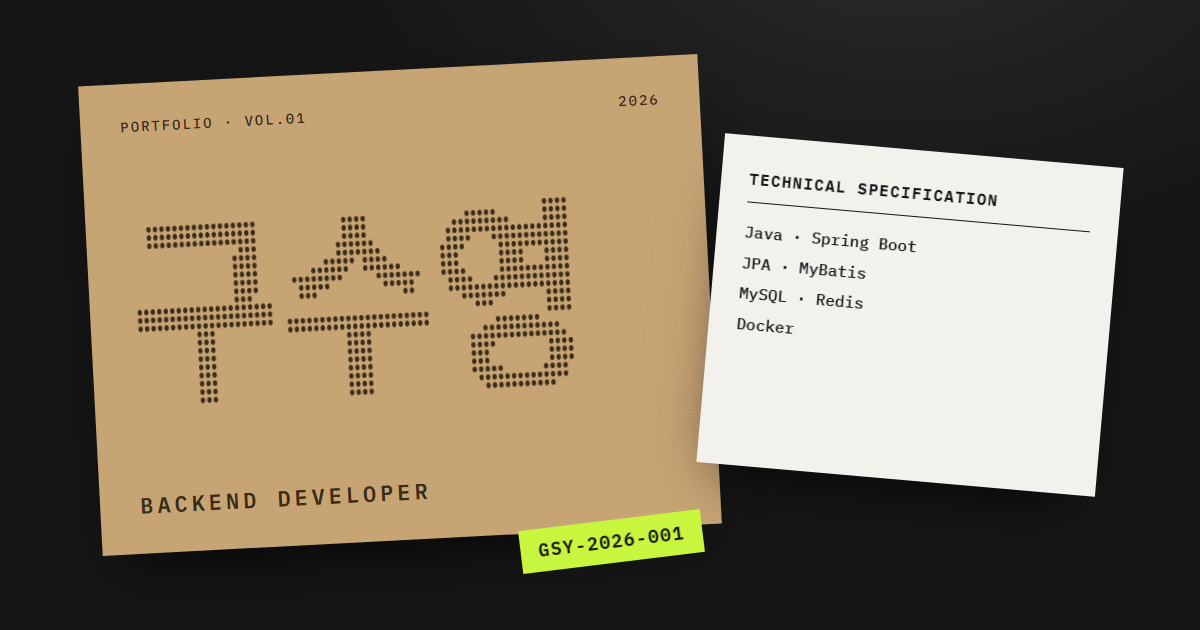
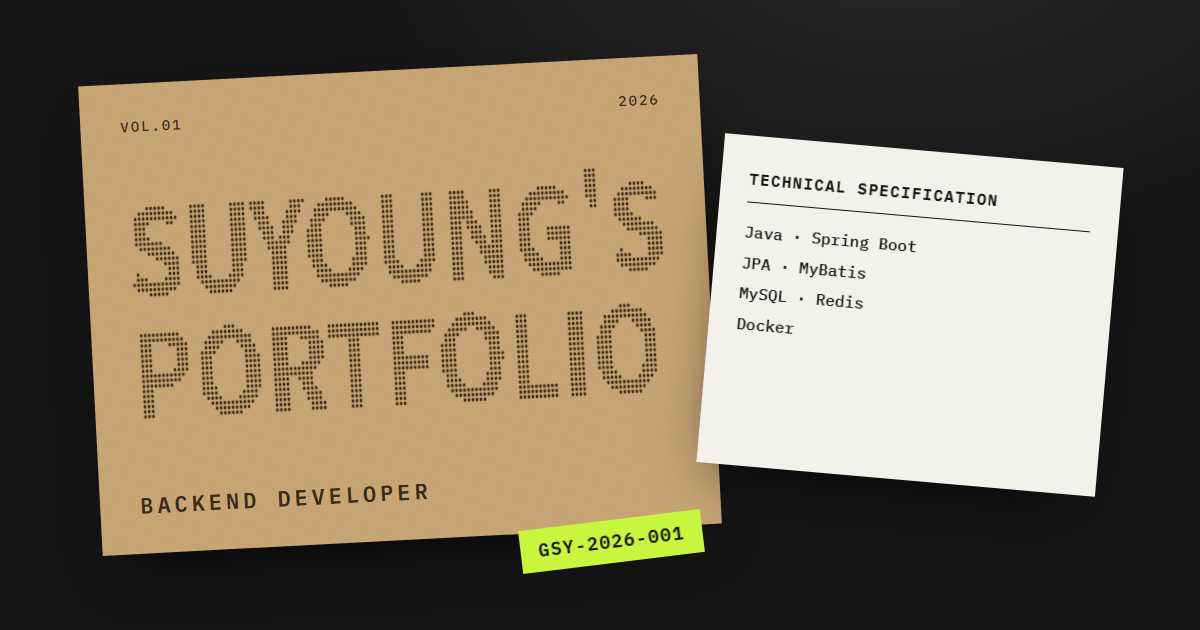
feat: 사이트 이름을 Suyoung's Portfolio 로, CA2SA 역할을 옵션 등록·수정으로
- 표지 도트 글자·브라우저 탭·링크 미리보기는 사이트 이름, 서신·이력 기록부의 Name 칸은 실명 유지
- DotText 여러 줄 지원, 실제 글자 폭 기준으로 크기 결정
- CA2SA 메뉴 옵션은 등록·수정만 담당한 것으로 확인

Changed region(s): [[0.0925, 0.2714, 0.555, 0.6635], [0.0925, 0.181, 0.2467, 0.2111]]

diff --git a/scripts/og-template.html b/scripts/og-template.html
@@ -30,7 +30,7 @@
 </head>
 <body>
   <div class="cover">
-    <div class="label"><span>Portfolio · Vol.01</span><span>2026</span></div>
+    <div class="label"><span>Vol.01</span><span>2026</span></div>
     <canvas id="c" width="1080" height="560"></canvas>
     <div class="role">BACKEND DEVELOPER</div>
   </div>
@@ -40,9 +40,11 @@
     document.fonts.ready.then(() => {
       const c = document.getElementById("c"), w = c.width, h = c.height, ctx = c.getContext("2d");
       const o = document.createElement("canvas"); o.width = w; o.height = h;
-      const x = o.getContext("2d"); const size = Math.min(h * 0.8, (w / 3) * 0.92);
-      x.font = `700 ${size}px "IBM Plex Sans KR"`; x.textBaseline = "middle"; x.fillText("구수영", 0, h / 2);
-      const d = x.getImageData(0, 0, w, h).data, step = Math.round(size / 26);
+      const x = o.getContext("2d"); const lines = ["SUYOUNG'S", "PORTFOLIO"];
+      let size = h * 0.42; x.font = `700 ${size}px "IBM Plex Sans KR"`;
+      const widest = Math.max(...lines.map((l) => x.measureText(l).width)); if (widest > w) { size *= w / widest; x.font = `700 ${size}px "IBM Plex Sans KR"`; }
+      x.textBaseline = "middle"; lines.forEach((l, i) => x.fillText(l, 0, h / 2 + (i - 0.5) * size * 1.05));
+      const d = x.getImageData(0, 0, w, h).data, step = Math.round(size / 22);
       ctx.fillStyle = "#3b2c18";
       for (let y = step / 2; y < h; y += step) for (let i = step / 2; i < w; i += step)
         if (d[((y | 0) * w + (i | 0)) * 4 + 3] > 110) { ctx.beginPath(); ctx.arc(i, y, step * .34, 0, 7); ctx.fill(); }

diff --git a/src/data/profile.ts b/src/data/profile.ts
@@ -1,6 +1,8 @@
 // 사이트 전체에서 쓰는 기본 정보. 노션 내용이 정리되면 여기를 채우세요.
 export const profile = {
   name: "구수영",
+  // 표지·브라우저 탭·링크 미리보기에 쓰는 사이트 이름
+  siteTitle: "Suyoung's Portfolio",
   nameEn: "GU SUYOUNG",
   // 서명 칸에 고정폭 이탤릭으로 표시됩니다.
   nameSign: "Suyoung Gu",

diff --git a/docs/project-notes/ca2sa.md b/docs/project-notes/ca2sa.md
@@ -2,8 +2,7 @@
 
 사이트에는 나가지 않는 작성 메모입니다. `src/content/projects/ca2sa.md` 에서 옮겨 왔습니다.
 
-- 옵션 조회·삭제 API는 현재 `MenuOptionController`, `MenuOptionService`, `MenuOptionMapper`에서 확인되지 않음. 다른 코드 경로나 당시 작업 이력을 확인한 후 구체적 구현 내역을 보완할 예정. (사이트의 역할 칸에는 "메뉴 옵션 CRUD 담당"으로 적혀 있으므로, 확인 결과에 따라 역할 문구를 맞출 것)
-- 메뉴 옵션 조회·삭제의 실제 구현 위치 및 담당 내역은 추가 확인이 필요.
+- (2026-10-15 확인) 메뉴 옵션은 등록·수정만 담당한 것이 맞음 → 사이트 역할 칸을 "메뉴 옵션 등록·수정 담당"으로 수정함. 조회·삭제는 담당 범위가 아님.
 - 개발 기간은 본인 GitHub 커밋(2024.12.18 ~ 2025.01.02) 기준으로 기재. 실제 프로젝트 시작·종료일은 다를 수 있음.
 - 구체적인 성과와 당시 해결했던 이슈는 추가 기록 확인 후 보완할 예정. 트러블슈팅이 생기면 frontmatter `troubleshooting` 에 넣으면 "검토 완료" 도장이 찍힘.
 - "회고 · 다시 만든다면" 절은 실제로 수행한 트러블슈팅이 아니라 현재 공개 코드를 읽으며 발견한 개선 검토 사항임.

diff --git a/src/content/projects/ca2sa.md b/src/content/projects/ca2sa.md
@@ -2,7 +2,7 @@
 title: CA2SA
 summary: 카페 메뉴 관리와 주문 기능을 제공하는 팀 프로젝트에서 메뉴 및 메뉴 옵션 관리 기능을 담당했습니다.
 period: "2024.12 ~ 2025.01"
-role: "백엔드 · 메뉴 CUD / 메뉴 옵션 CRUD 담당"
+role: "백엔드 · 메뉴 CUD / 메뉴 옵션 등록·수정 담당"
 stack: [Java 17, Spring Boot 3.3.6, MyBatis, MariaDB, springdoc OpenAPI, Gradle]
 highlight: "메뉴 등록·수정·삭제와 이미지 파일 관리, 메뉴 옵션 중복 검증"
 repo: https://github.com/2024-GREEN-1st-PROJECT/CA2SA
